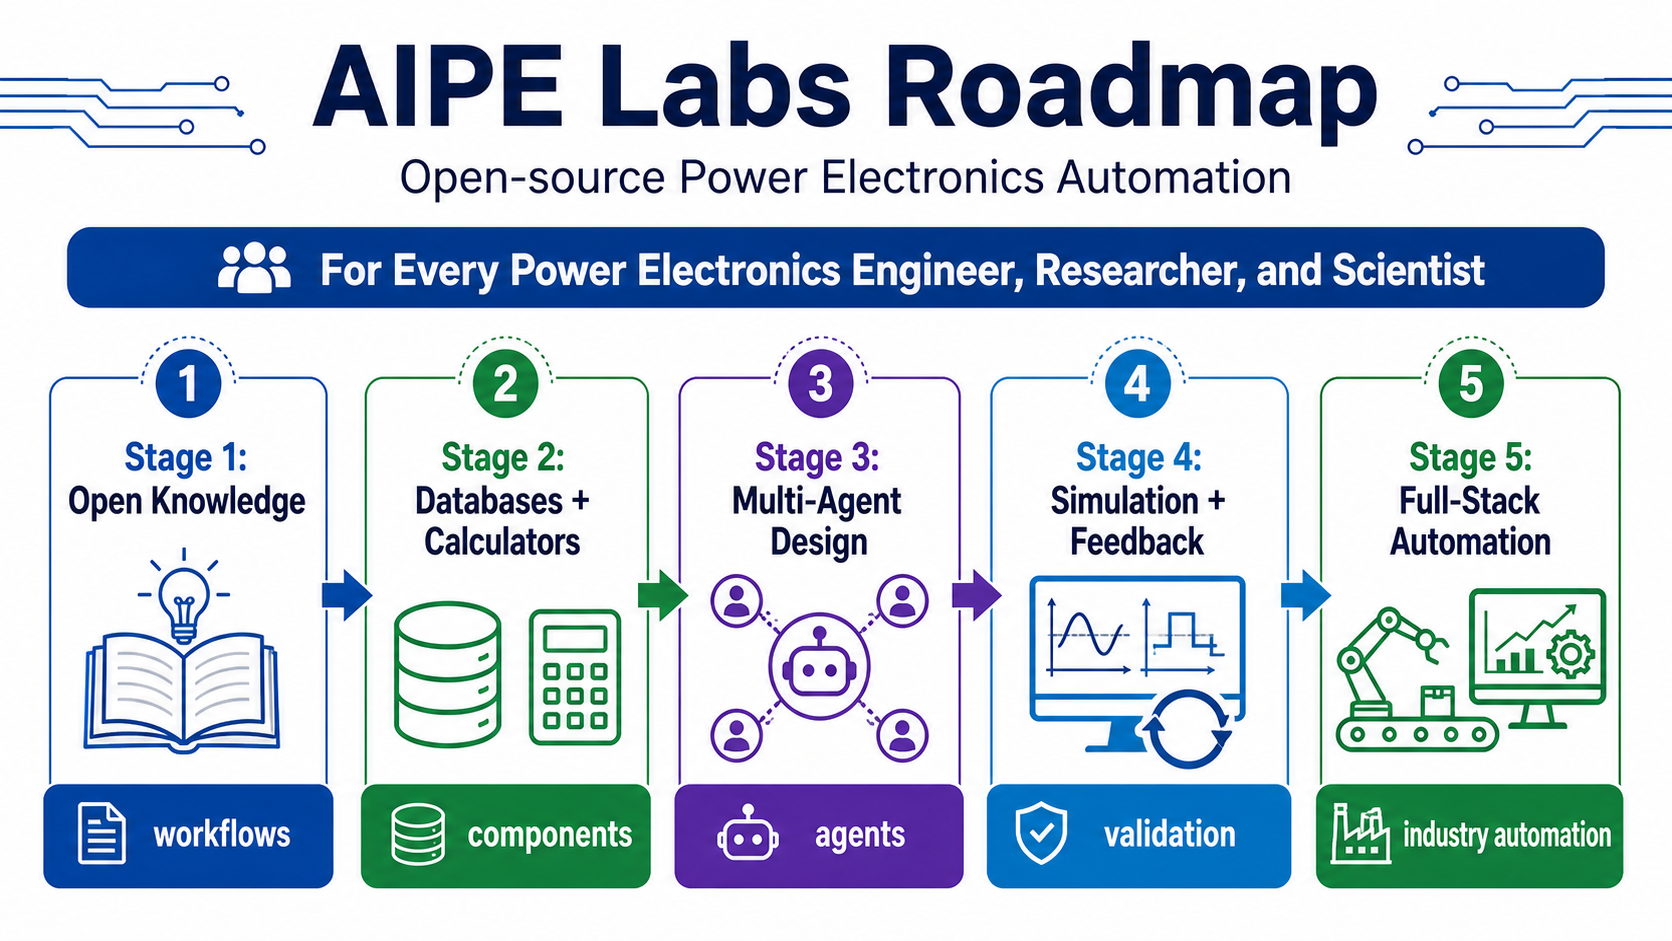
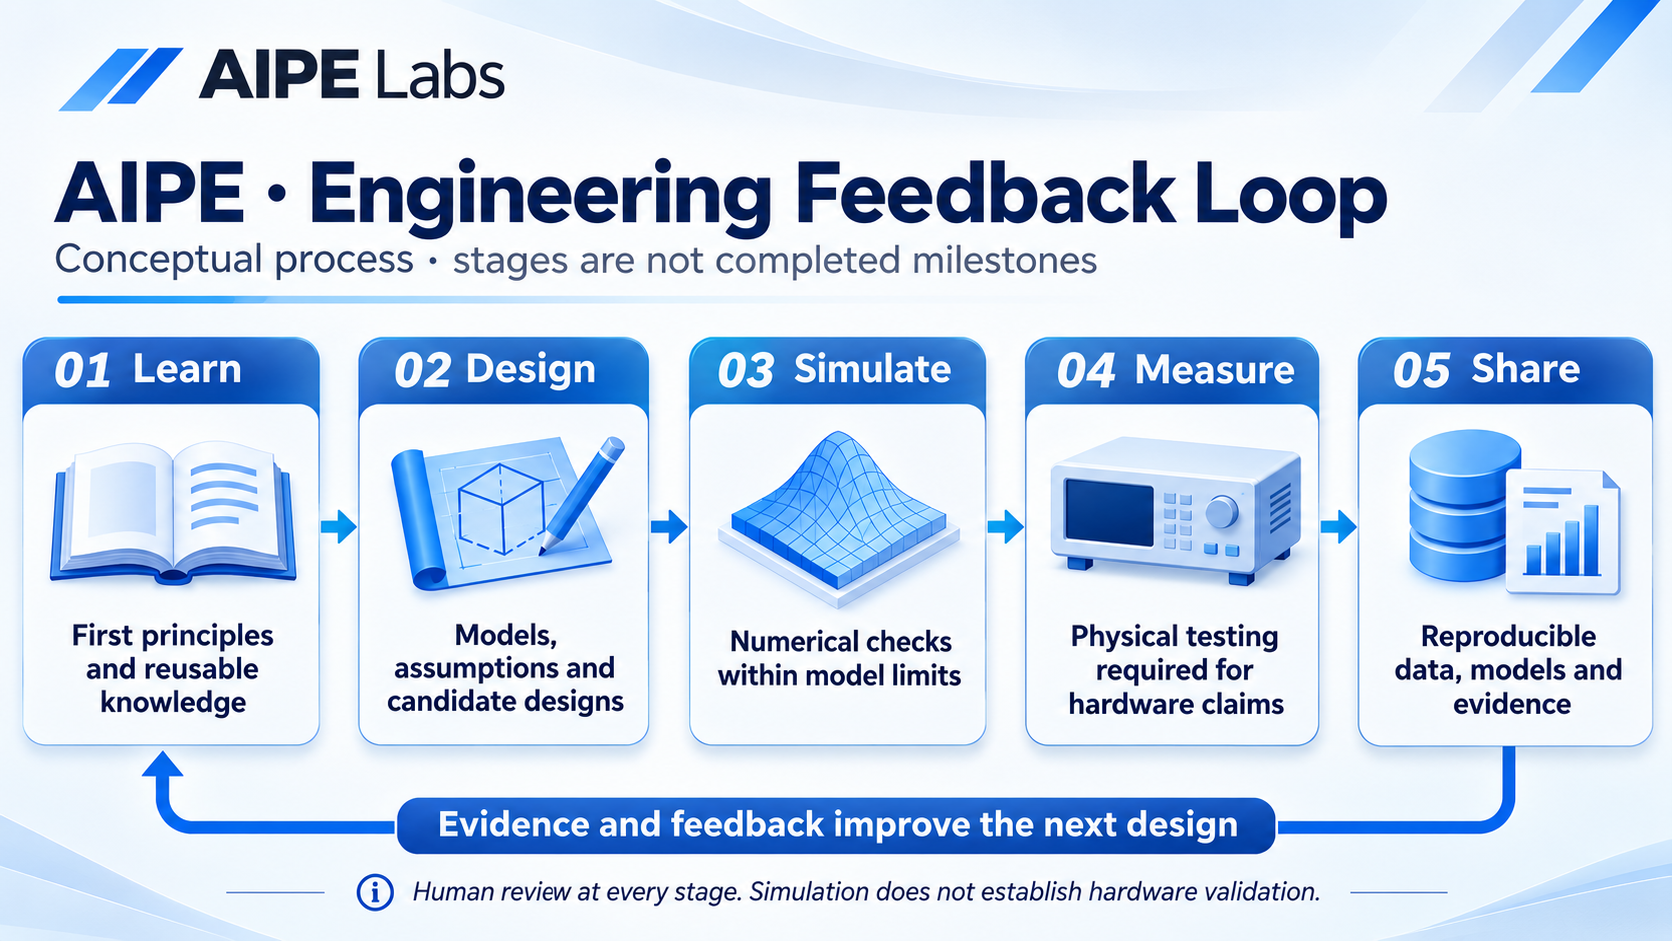
docs: Refresh AIPE Labs organisation profile and ecosystem visuals

diff --git a/profile/README.md b/profile/README.md
@@ -1,210 +1,90 @@
+<div align="center">
+
 # AIPE Labs
 
-**AIPE Labs is an open-source community for AI-assisted power electronics automation.**
+### AI for Power Engineering
 
-Our vision is to make advanced power electronics design, simulation, optimisation, documentation, and validation more automated, traceable, reusable, and accessible for every power electronics engineer, researcher, and scientist.
+**An open engineering hub for power and energy.**<br>
+Learn established engineering knowledge, build with reusable tools and data, and explore emerging ideas—with traceable evidence and human review.
 
-Power electronics is becoming too multidisciplinary for fragmented manual workflows alone. Converter design now requires coordinated decisions across topology, semiconductor devices, magnetics, capacitors, control, thermal management, EMI, reliability, manufacturability, cost, simulation, testing, and lifecycle feedback. AIPE exists to build the open architecture, tools, datasets, agents, and workflows needed to automate as much of this engineering process as possible.
+[Website](https://aipel.co.uk/) · [Hub](https://aipel.co.uk/hub/) · [Academy](https://aipel.co.uk/academy/) · [Frontiers](https://aipel.co.uk/frontiers/) · [AIPE for coding agents](https://aipel.co.uk/plugin/) · [Machine-readable capabilities](https://aipel.co.uk/aipe.json)
 
-## Mission
+</div>
 
-AIPE means **AI for Power Electronics**.
+---
 
-The long-term mission is not only to build a single design assistant. The mission is to help the power electronics community move toward a more automated engineering ecosystem:
+## What is AIPE?
 
-- from natural-language requirements to structured converter specifications
-- from specifications to topology and architecture exploration
-- from topology to device, magnetics, passive, control, and thermal design
-- from design candidates to multi-objective optimisation and Pareto comparison
-- from calculations to simulation-ready models and validation plans
-- from project experience to reusable open knowledge, databases, and AI workflows
-- from isolated tools to a community-driven automation framework for the whole field
+**AIPE (AI for Power Engineering)** is a modular engineering ecosystem connecting knowledge, datasets, analytical models, specialist software tools, AI-assisted workflows, and reproducible engineering evidence. Power electronics is its first engineering domain, with power systems and renewable energy within its broader scope.
 
-AIPE is designed to augment engineers, not replace engineering judgement. Human experts remain responsible for assumptions, safety margins, model validity, hardware review, and final design approval. The role of AIPE is to automate repetitive exploration, preserve design rationale, expose trade-offs, and make expert workflows reusable.
+Independent, inspectable engineering capabilities can be used on their own or composed into larger workflows.
 
-## Why AIPE
+| Learn | Build | Explore |
+| :-- | :-- | :-- |
+| **[AIPE Academy](https://aipel.co.uk/academy/)** — first principles, guided lessons and reproducible labs. | **[AIPE Hub](https://aipel.co.uk/hub/)** — reusable data, models, engineering tools and workflows. | **[AIPE Frontiers](https://aipel.co.uk/frontiers/)** — research directions, hypotheses and questions with explicit evidence status. |
 
-Power electronic converter design is still scattered across datasheets, empirical rules, spreadsheets, analytical models, simulation tools, laboratory notes, and personal experience. This makes it difficult to explore large design spaces, compare alternatives transparently, and reuse knowledge across projects.
+## How the ecosystem fits together
 
-AIPE addresses this by combining:
+![AIPE ecosystem: Academy, Hub and Frontiers; Core, Registry and Workflows; specialised engineering capabilities](images/aipe-multi-agent-architecture.png)
 
-- LLM-based reasoning and workflow coordination
-- deterministic engineering calculators
-- curated component and material databases
-- rule-based safety and derating checks
-- optimisation routines
-- simulation and tool-chain interfaces
-- human-in-the-loop engineering review
-- open-source community knowledge
+*Conceptual ecosystem map; capability availability and evidence status are documented by each project.*
 
-The objective is to create a practical bridge between power electronics domain expertise and agentic engineering software.
+The three foundational repositories have distinct responsibilities:
 
-## Architecture
+- **[AIPE Core](https://github.com/FulongLi/AIPE-Core)** specifies the shared *Engineering State*, schemas, units, provenance and evidence contracts. It does **not** run solvers or agents.
+- **[AIPE Registry](https://github.com/FulongLi/AIPE-Registry)** validates capability manifests and builds machine-readable and agent-readable indexes. It does **not** execute engineering tools.
+- **[AIPE Workflows](https://github.com/FulongLi/AIPE-Workflows)** composes specialist capabilities into checkpointed task graphs, records results and applies verification gates. Engineering calculations remain with the specialist tools.
 
-The AIPE framework is organised as a multi-agent engineering workflow.
+The architecture deliberately separates engineering facts and evidence from AI-generated explanations. A software check, an analytical result, a numerical simulation and a laboratory measurement are different levels of evidence.
 
-![AIPE Multi-Agent Architecture](images/aipe-multi-agent-architecture.png)
+## Explore the repositories
 
-At the centre is a **Chief Architect Agent**. It interprets the design intent, selects the workflow, coordinates domain agents, manages assumptions, detects conflicts, and decides whether a design should proceed, iterate, or be rejected.
+Most active AIPE development repositories currently live under **[FulongLi](https://github.com/FulongLi)**, while this **[AIPE-Labs organisation](https://github.com/AIPE-Labs)** provides a community-facing entry point. The links below lead to the relevant source repositories.
 
-Around it are specialised domain agents:
+| Area | Projects and what they do |
+| :-- | :-- |
+| **Orchestration** | [Core](https://github.com/FulongLi/AIPE-Core) · [Registry](https://github.com/FulongLi/AIPE-Registry) · [Workflows](https://github.com/FulongLi/AIPE-Workflows) |
+| **Electrical and devices** | [Electrical Design](https://github.com/FulongLi/AIPE-Electrical-Design) · [Semiconductor Database](https://github.com/FulongLi/AIPE-Semiconductor-Database) · [Converter Optimisation](https://github.com/FulongLi/AIPE-Converter-Optimisation-Agent) |
+| **Magnetics and thermal** | [Magnetics Database](https://github.com/FulongLi/AIPE-Magnetics-Database) · [Thermal Design](https://github.com/FulongLi/AIPE-Thermal-Design) |
+| **Circuit and field simulation** | [Simulation Skills](https://github.com/FulongLi/AIPE-Simulation-Skills) · [Field Simulation](https://github.com/FulongLi/AIPE-Field-Simulation) |
+| **Engineering design agents** | [Sketcher](https://github.com/FulongLi/AIPE-Sketcher) · [CAD Agent](https://github.com/FulongLi/AIPE-CAD-Agent) · [PCB Agent](https://github.com/FulongLi/AIPE-PCB-Agent) |
+| **Knowledge and publication** | [Academy](https://github.com/FulongLi/AIPE-Academy) · [IEEE Paper Agent](https://github.com/FulongLi/AIPE-IEEE-Paper-Agent) · [AIPE Doc](https://github.com/FulongLi/AIPE-Doc) |
+| **Public interface** | [AIPE website](https://github.com/FulongLi/Spirit-Connect-AIPE-Labs) · [aipel.co.uk](https://aipel.co.uk/) |
 
-| Agent | Responsibility |
-| --- | --- |
-| Requirement Agent | Converts natural-language prompts and partial specifications into structured requirements. |
-| Topology Agent | Generates, ranks, and rejects converter topology candidates with engineering reasoning. |
-| Design Variable Agent | Defines feasible search bounds for frequency, voltage ratio, ripple, resonant parameters, and related variables. |
-| Semiconductor Agent | Selects Si, SiC, and GaN devices and estimates conduction, switching, and thermal risks. |
-| Magnetics Agent | Designs inductors and transformers, including core choice, winding, loss, saturation, and manufacturability. |
-| Passive Agent | Sizes DC-link, input, output, resonant, snubber, and EMI-related passive components. |
-| Control Agent | Proposes modulation, control loops, sensing, protection, and digital implementation logic. |
-| Thermal Agent | Converts loss distribution into temperature estimates and cooling requirements. |
-| EMI and Reliability Agent | Identifies EMI risks, derating issues, failure modes, and safety concerns. |
-| Cost and Supply Agent | Estimates BOM cost, alternative parts, and supply-chain risk. |
-| Optimisation Agent | Performs constrained multi-objective optimisation and Pareto ranking. |
-| Simulation Agent | Generates simulation plans, parameter sets, and tool-ready workflows. |
-| Review Agent | Performs senior-engineer-style sanity checking before a design is accepted. |
-| Report Agent | Produces reports, comparison tables, risk registers, BOMs, and documentation. |
+Related research and resources: [MOSFET ANN modelling](https://github.com/FulongLi/AIPE-MOSFET-ANN-Modelling), [solid-state transformer studies](https://github.com/FulongLi/AIPE-Solid-State-Transformer), [inductor design example](https://github.com/FulongLi/AIPE-Magnetics-Agnet-Inductor-Design-Example), [DC microgrid test bench](https://github.com/FulongLi/DCMicrogridTestBench), [PCB Rogowski coils](https://github.com/FulongLi/PCB-Rogowski-Coil), [Transistor Database](https://github.com/FulongLi/transistordatabase), [Power Electronics Device Library](https://github.com/FulongLi/PowerElectronicsDeviceLibrary), [buck converter optimisation](https://github.com/FulongLi/BuckConverterOptimisation) and the [open-source power electronics catalogue](https://github.com/FulongLi/awesome-open-source-power-electronics).
 
-## Unified Design Object
+Each project has its own requirements, maturity, supported domain and licence. Core, Registry and Workflows declare MIT; Academy uses CC BY 4.0; Thermal Design has module-specific CC BY 4.0 and MIT terms. Sketcher's draft source-available licence permits personal, non-commercial use and requires permission for commercial use. Several other projects have no declared repository licence or incomplete licence documentation. **Check each repository's licence and third-party data terms before use, redistribution or commercial adoption.**
 
-A core AIPE idea is that all agents should work on a shared structured design state rather than producing isolated outputs.
+## The engineering feedback loop
 
-The **Unified Converter Design Object** records:
+![Conceptual AIPE feedback loop: learn, design, simulate, measure, share; physical testing is required for hardware claims](images/aipe-labs-roadmap.png)
 
-- requirements and assumptions
-- topology candidates and rejected options
-- selected topology and design variables
-- semiconductor, magnetics, passive, and cooling candidates
-- losses, thermal results, EMI risks, reliability risks, and cost estimates
-- optimisation results and Pareto comparisons
-- simulation plans and validation requirements
-- review warnings and human decisions
-- design history and reasons for each iteration
+**Learn → Design → Simulate → Measure → Share → Learn.** These are process stages, not completed milestones. Record assumptions, model limits and evidence at every step; physical testing and human review are required to substantiate hardware claims.
 
-This shared object makes the workflow traceable. For example, if a lower switching frequency reduces switching loss but increases magnetic volume, the trade-off should be recorded explicitly instead of disappearing inside an optimisation result.
+A representative integrated benchmark is a **10 kW dual-active-bridge converter (800 V → 400 V, 100 kHz, single-phase-shift modulation)**. The [Workflows](https://github.com/FulongLi/AIPE-Workflows) repository connects electrical calculations, circuit simulation, magnetics, thermal assessment, geometry, field simulation and PCB tasks while preserving inputs, limitations and verification records.
 
-## Workflow Logic
+**Current scope:** these are evolving research and engineering software prototypes. Where a workflow reports software checks or solver-backed numerical results, that does *not* establish a manufactured, measured or safety-certified converter. Device ratings, insulation, protection, EMI, thermal limits and final hardware decisions require appropriate engineering assessment and validation.
 
-AIPE follows an iterative state-based workflow:
+## Start here
 
-1. Parse requirements and identify missing information.
-2. Generate candidate converter architectures.
-3. Define design variables and feasible search boundaries.
-4. Select devices, magnetics, passives, control methods, and cooling assumptions.
-5. Run deterministic calculations and rule-based checks.
-6. Compare candidates by efficiency, volume, cost, temperature, EMI risk, reliability, and manufacturability.
-7. Resolve conflicts through optimisation, review, and human judgement.
-8. Generate simulation-ready models, validation plans, and engineering reports.
-9. Feed review results and test knowledge back into the design object and community knowledge base.
+- **Discover:** use the [AIPE Hub](https://aipel.co.uk/hub/) or read the [capability index](https://aipel.co.uk/aipe.md) to find tools, models, data and workflows.
+- **Learn:** explore [AIPE Academy](https://github.com/FulongLi/AIPE-Academy), which distinguishes completed lessons and labs from planned curriculum.
+- **Try a focused tool:** start with [AIPE Sketcher](https://github.com/FulongLi/AIPE-Sketcher), [AIPE Magnetics](https://github.com/FulongLi/AIPE-Magnetics-Database), or another relevant specialist repository and follow its documented installation and validation steps.
+- **Explore integrated workflows:** consult the [10 kW DAB example](https://github.com/FulongLi/AIPE-Workflows/tree/main/examples/dab-10kw) and its reported verification gates.
+- **Contribute:** open an issue, propose a pull request or share reproducible test cases in the relevant source repository. Follow each repository's contribution and licensing guidance.
 
-The aim is not to hide engineering compromises behind one automatically generated answer. AIPE should expose why each candidate works, why another candidate was rejected, and what must be validated next.
+## Principles
 
-## Open-Source Community
+**Physics before presentation.** Use explicit assumptions, SI units and known model validity limits.<br>
+**Evidence before claims.** Distinguish calculations, simulations, software checks and measurements.<br>
+**Composable by design.** Prefer standalone specialist capabilities with versioned interfaces.<br>
+**Human accountability.** AI assists engineering judgement; it does not replace design review or safety responsibility.
 
-AIPE Labs is built as an open-source community because power electronics automation is bigger than one person, one lab, or one company.
+---
 
-The community welcomes:
+<div align="center">
 
-- power electronics engineers
-- researchers and PhD students
-- semiconductor and magnetics specialists
-- control and simulation experts
-- AI agent and software developers
-- educators building reusable engineering workflows
-- scientists working on automated design and optimisation
+**AIPE Labs · Spirit Connect**<br>
+Cardiff, United Kingdom · [aipel.co.uk](https://aipel.co.uk/) · [Contact](https://aipel.co.uk/contact/)
 
-The shared goal is ambitious: to maximise automation across the power electronics industry while keeping engineering decisions transparent, auditable, and physically grounded.
-
-## Roadmap
-
-![AIPE Labs Roadmap](images/aipe-labs-roadmap.png)
-
-### Stage 1: Open Knowledge and Reusable Workflows
-
-- Collect topology knowledge, design rules, and reference workflows.
-- Build reusable simulation and debugging skills for PLECS, LTspice, SIMetrix/SIMPLIS, MATLAB/Simulink, ANSYS, and COMSOL.
-- Organise power electronics research-writing and documentation workflows.
-- Publish examples that show how AI agents can assist real converter projects.
-
-### Stage 2: Structured Databases and Deterministic Calculators
-
-- Develop semiconductor, magnetic material, passive component, and cooling databases.
-- Build loss, thermal, derating, ripple, magnetics, and cost calculators.
-- Link every recommendation to data, assumptions, and engineering rules.
-- Support traceable early-stage screening before high-fidelity simulation.
-
-### Stage 3: Multi-Agent Converter Design Automation
-
-- Implement requirement, topology, semiconductor, magnetics, passive, control, thermal, EMI, reliability, cost, optimisation, simulation, review, and report agents.
-- Use a shared converter design object to coordinate all agents.
-- Support DC-DC, AC-DC, DC-AC, AC-AC, isolated, bidirectional, and grid-connected converter workflows.
-- Generate simulation-ready candidate designs and validation plans.
-
-### Stage 4: Optimisation, Simulation, and Experimental Feedback
-
-- Integrate Pareto optimisation for efficiency, power density, cost, temperature, EMI risk, and reliability.
-- Connect AIPE outputs to simulation tools and hardware validation workflows.
-- Capture test results, model errors, and design review feedback.
-- Improve future designs through reusable design history.
-
-### Stage 5: Toward Full-Stack Power Electronics Automation
-
-- Connect requirements, design, simulation, manufacturing planning, testing, field-data feedback, and redesign.
-- Build community-maintained benchmarks and validation cases.
-- Enable AI-assisted design environments for converters, microgrids, solid-state transformers, EV charging, data-centre power, renewable energy, and advanced power systems.
-- Move toward the long-term vision of highly automated power electronics engineering.
-
-## Current Projects
-
-| Project | Focus |
-| --- | --- |
-| [Spirit Connect AIPE Labs](https://github.com/FulongLi/Spirit-Connect-AIPE-Labs) | Public AIPE Labs website for AI-assisted power electronics converter design automation. |
-| [AIPE Power Electronics Design Agent](https://github.com/FulongLi/AIPE-Power-Electronics-Design-Agent) | AI assistant for topology selection, converter calculations, magnetics design, component guidance, Pareto optimisation, RAG, CLI, web UI, and desktop UI. |
-| [AIPE MOSFET ANN Modelling](https://github.com/FulongLi/AIPE-MOSFET-ANN-Modelling) | ANN-based MOSFET switching-loss, conduction-loss, and thermal-impedance prediction with PyTorch and Flask. |
-| [AIPE Converter Optimisation Agent](https://github.com/FulongLi/AIPE-Converter-Optimisation-Agent) | Python optimisation workflow for converter volume-loss exploration and ANN surrogate modelling. |
-| [AIPE Simulation Agents](https://github.com/FulongLi/AIPE-Simulation-Agents) | AI skills for simulation, debugging, digital control, electromagnetic, and thermal workflows. |
-| [AIPE Power Device Database](https://github.com/FulongLi/AIPE-Power-Device-Database) | Foundation for structured power-device management and evaluation. |
-| [AIPE Magnetics Library](https://github.com/FulongLi/AIPE-Magnetics-Library) | Magnetics reference assets and current-sensing related materials. |
-| [AIPE Magnetics Inductor Design Example](https://github.com/FulongLi/AIPE-Magnetics-Agnet-Inductor-Design-Example) | Inductor design documentation and technical drawings. |
-| [AIPE Solid State Transformer](https://github.com/FulongLi/AIPE-Solid-State-Transformer) | SST design documentation for multi-stage conversion, high-frequency isolation, control, and smart-grid integration. |
-| [AIPE IEEE Paper Agent](https://github.com/FulongLi/AIPE-IEEE-Paper-Agent) | LaTeX and AI writing workflow for IEEE-style research papers. |
-
-## Related Power Electronics Work
-
-| Project | Focus |
-| --- | --- |
-| [DC Microgrid Test Bench](https://github.com/FulongLi/DCMicrogridTestBench) | Low-voltage DC microgrid platform for converter design, hierarchical control, energy management, grid-connected operation, and islanded operation. |
-| [PCB Rogowski Coil](https://github.com/FulongLi/PCB-Rogowski-Coil) | PCB-based Rogowski coil designs for current sensing and power electronics development. |
-| [Transistor Database](https://github.com/FulongLi/transistordatabase) | Tool for managing and evaluating power transistors. |
-| [Power Electronics Device Library](https://github.com/FulongLi/PowerElectronicsDeviceLibrary) | Python-based power electronics device library work. |
-| [Double Pulse Test Automation](https://github.com/FulongLi/DoublePulseTestAutomation) | Automation-oriented workflow for power-device double-pulse testing. |
-| [Buck Converter Optimisation](https://github.com/FulongLi/BuckConverterOptimisation) | Buck-converter optimisation workflows. |
-| [Awesome Open Source Power Electronics](https://github.com/FulongLi/awesome-open-source-power-electronics) | Curated list of open-source power electronics tools. |
-
-## Research Direction
-
-AIPE Labs is developing a research and engineering foundation for:
-
-- AI-assisted converter architecture exploration
-- topology knowledge bases and rejection logic
-- semiconductor device modelling and derating
-- magnetics and passive component automation
-- control synthesis and digital implementation support
-- loss, thermal, EMI, reliability, and cost modelling
-- multi-objective optimisation and Pareto design
-- simulation-ready workflow generation
-- human-in-the-loop design review
-- open community benchmarks for power electronics automation
-
-## Join the Vision
-
-AIPE Labs is for people who believe power electronics can become more open, more automated, and more collaborative.
-
-If you are building tools, datasets, models, design rules, simulation workflows, tutorials, benchmarks, or agentic engineering systems for power electronics, you are part of the future AIPE is trying to create.
-
-## Links
-
-- GitHub: [FulongLi](https://github.com/FulongLi)
-- Website: [fulongli.github.io](https://fulongli.github.io)
-- AIPE Labs: [Spirit Connect AIPE Labs](https://fulongli.github.io/Spirit-Connect-AIPE-Labs/)
+</div>
